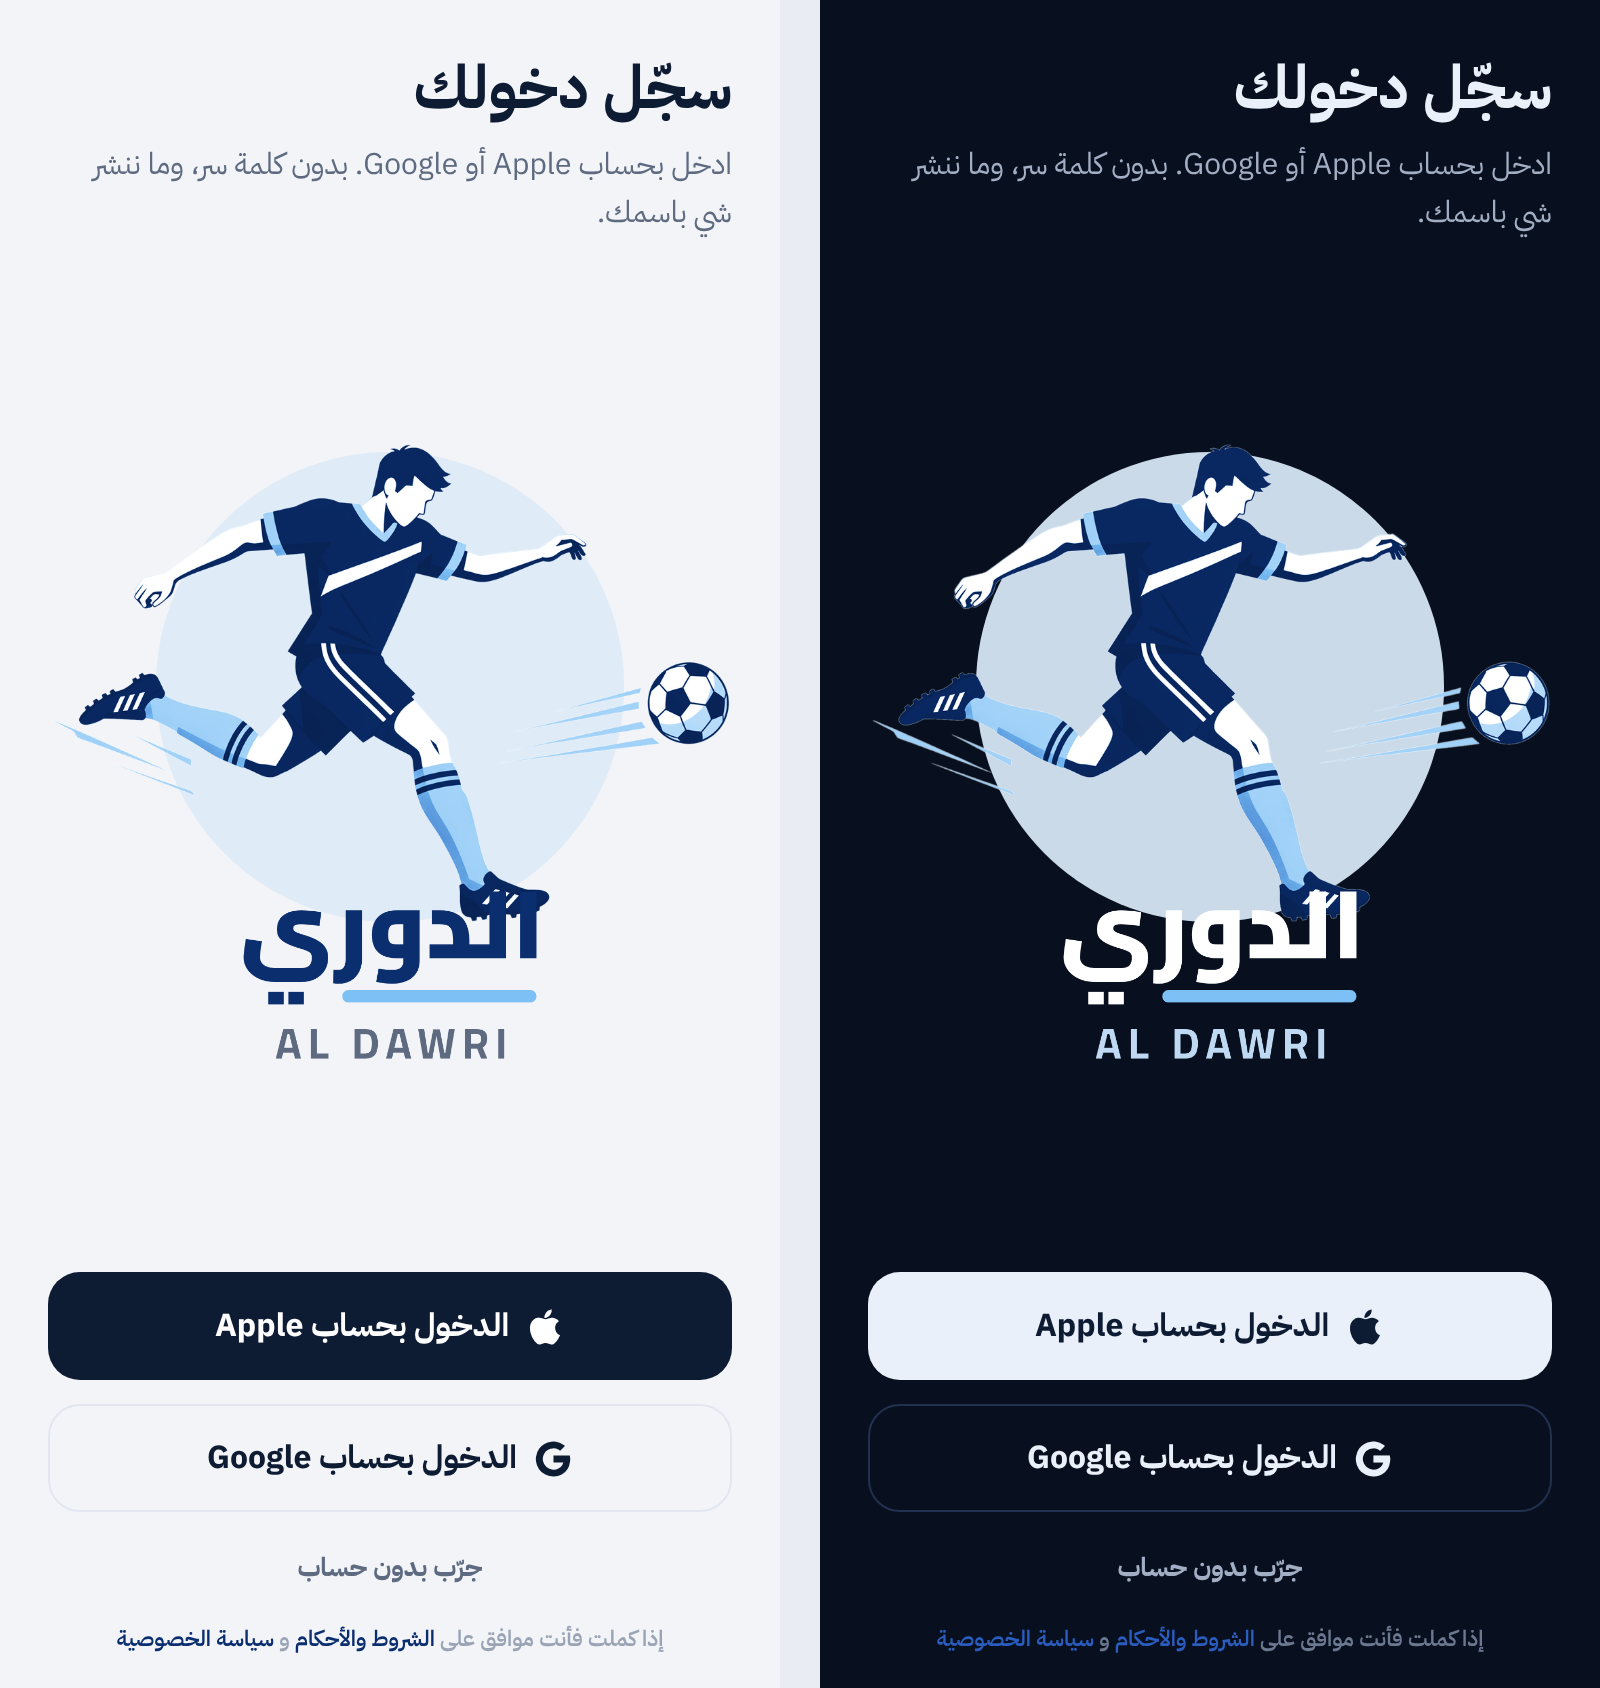
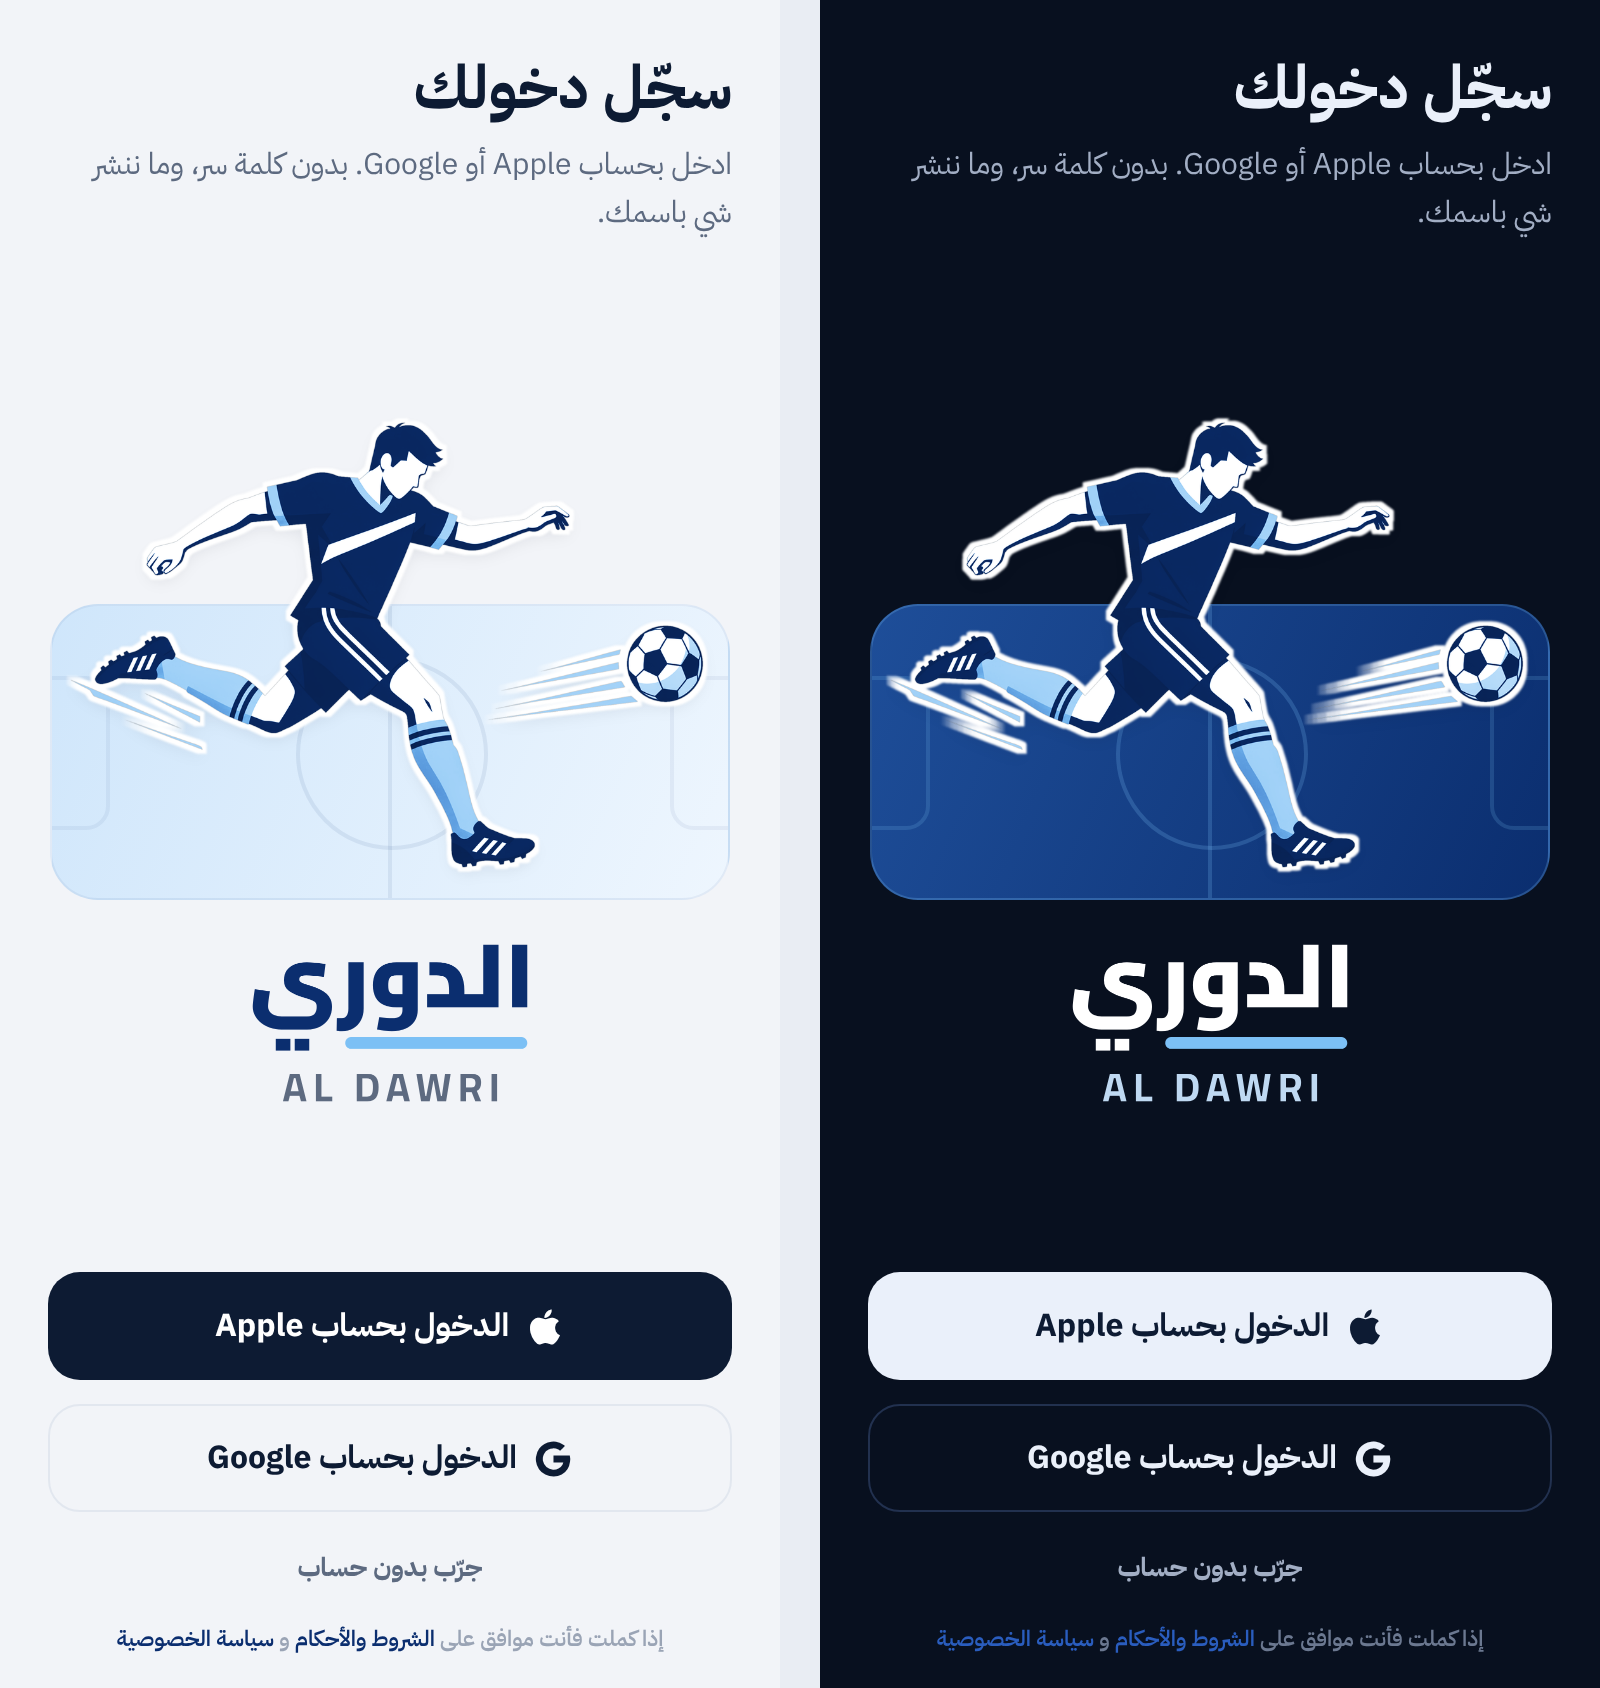
Sign-in hero: pitch card with brand gradient, sticker-outlined player breaking out of the frame
Claude-Session: https://claude.ai/code/session_011pNzHWHBXrQ5PjiHwvfR3H

Changed region(s): [[0.5312, 0.2464, 0.9688, 0.6777], [0.0312, 0.2464, 0.375, 0.6777], [0.3125, 0.3697, 0.4688, 0.4621]]

diff --git a/src/app/onboarding.tsx b/src/app/onboarding.tsx
@@ -134,17 +134,35 @@ export default function Onboarding() {
               </Txt>
             </View>
             {/* Player kicking, behind the wordmark */}
-            <View style={{ flex: 1, alignItems: 'center', justifyContent: 'center' }}>
-              <View style={{ width: artW, alignItems: 'center' }}>
-                <View style={{ position: 'absolute', top: artH * 0.02, left: (artW - artH * 0.98) / 2, width: artH * 0.98, height: artH * 0.98, borderRadius: artH, backgroundColor: themeName === 'dark' ? '#DCEBFA' : '#7CC0F5', opacity: themeName === 'dark' ? 0.92 : 0.16 }} />
-                <Image source={require('../../assets/brand/art/kicker.png')} style={{ width: artW, height: artH }} resizeMode="contain" accessibilityIgnoresInvertColors />
-                <Image
-                  source={themeName === 'dark' ? require('../../assets/brand/lockup-white.png') : require('../../assets/brand/lockup-navy.png')}
-                  style={{ width: 160, height: 97, marginTop: -22 }}
-                  resizeMode="contain"
-                  accessibilityLabel={t('appName')}
-                />
+            <View style={{ flex: 1, alignItems: 'center', justifyContent: 'center', gap: space.lg }}>
+              {/* Hero card: brand gradient + pitch lines; the player breaks out over the top edge */}
+              <View style={{ width: artW, height: artH * 0.62 + artH * 0.42, justifyContent: 'flex-end' }}>
+                <LinearGradient
+                  colors={themeName === 'dark' ? ['#1E4E99', '#0B2E6F'] : ['#CFE6FB', '#EEF6FE']}
+                  start={{ x: 0, y: 0 }}
+                  end={{ x: 1, y: 1 }}
+                  style={{ height: artH * 0.62, borderRadius: radius.xl, overflow: 'hidden', borderWidth: 1, borderColor: themeName === 'dark' ? 'rgba(124,192,245,0.25)' : 'rgba(11,46,111,0.06)' }}
+                >
+                  <View style={{ position: 'absolute', left: '50%', top: 0, bottom: 0, width: 2, marginLeft: -1, backgroundColor: themeName === 'dark' ? 'rgba(124,192,245,0.22)' : 'rgba(11,46,111,0.08)' }} />
+                  <View style={{ position: 'absolute', left: artW / 2 - artH * 0.2, top: artH * 0.31 - artH * 0.2, width: artH * 0.4, height: artH * 0.4, borderRadius: artH, borderWidth: 2, borderColor: themeName === 'dark' ? 'rgba(124,192,245,0.22)' : 'rgba(11,46,111,0.08)' }} />
+                  <View style={{ position: 'absolute', left: -artH * 0.12, top: artH * 0.31 - artH * 0.16, width: artH * 0.24, height: artH * 0.32, borderRadius: radius.md, borderWidth: 2, borderColor: themeName === 'dark' ? 'rgba(124,192,245,0.18)' : 'rgba(11,46,111,0.06)' }} />
+                  <View style={{ position: 'absolute', right: -artH * 0.12, top: artH * 0.31 - artH * 0.16, width: artH * 0.24, height: artH * 0.32, borderRadius: radius.md, borderWidth: 2, borderColor: themeName === 'dark' ? 'rgba(124,192,245,0.18)' : 'rgba(11,46,111,0.06)' }} />
+                </LinearGradient>
+                <View pointerEvents="none" style={{ position: 'absolute', top: 0, bottom: artH * 0.03, width: artW, alignItems: 'center', justifyContent: 'flex-end' }}>
+                  <Image
+                    source={require('../../assets/brand/art/kicker-sticker.png')}
+                    style={{ width: artW * 0.96, height: artW * 0.96 * (742 / 1028) }}
+                    resizeMode="contain"
+                    accessibilityIgnoresInvertColors
+                  />
+                </View>
               </View>
+              <Image
+                source={themeName === 'dark' ? require('../../assets/brand/lockup-white.png') : require('../../assets/brand/lockup-navy.png')}
+                style={{ width: 150, height: 91 }}
+                resizeMode="contain"
+                accessibilityLabel={t('appName')}
+              />
             </View>
             {authError && (
               <Row gap={6}>
